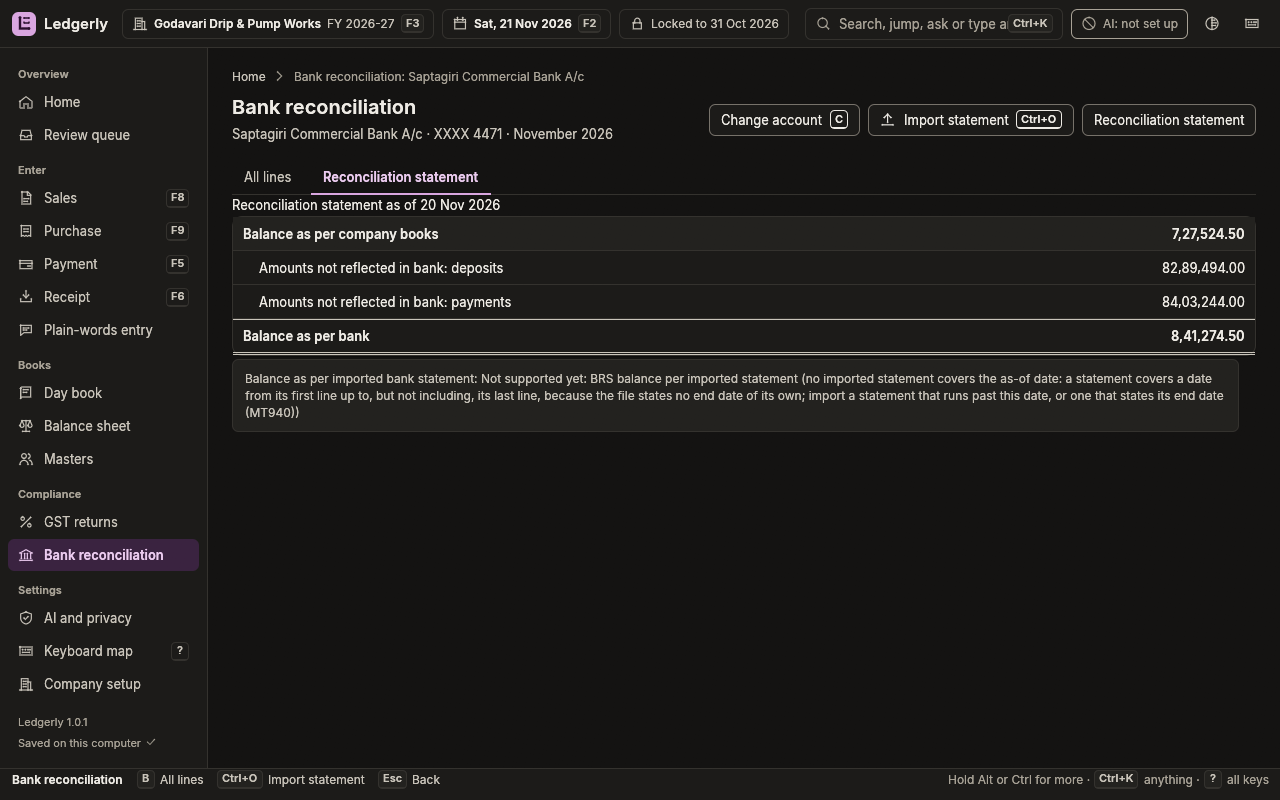
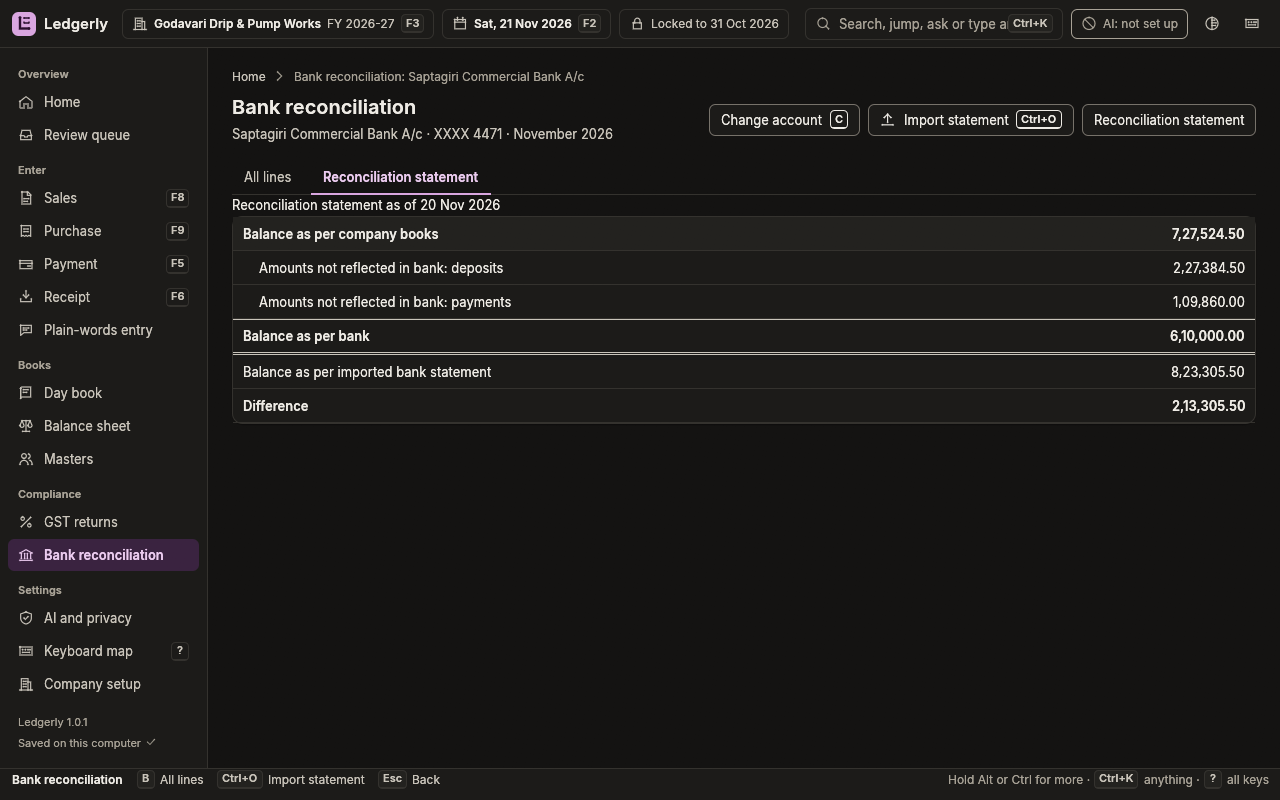
Sample: bank dates on the April to October bank lines and an MT940 November statement
The sample's Saptagiri history lines carry a bank date (cleared_days, 2 or 3 days after
the voucher), and the November statement is an MT940 file that states its end date, so the
reconciliation statement shows only the six November vouchers as uncleared, the statement
balance 8,23,305.50 and the difference, all computed by the engine.

Changed region(s): [[0.1875, 0.375, 0.9688, 0.5312], [0.9062, 0.3125, 0.9688, 0.3438]]

diff --git a/crates/ledgerly-sample/tests/s9_bank.rs b/crates/ledgerly-sample/tests/s9_bank.rs
@@ -1,0 +1,68 @@
+//! The bank reconciliation statement of Saptagiri on the sample company, 20 Nov 2026. Expected
+//! values are hand workings from the seed and the mock's statement (`design/mock-v2/index.html`
+//! lines 744-757); none is copied from engine output.
+#![allow(
+    clippy::unwrap_used,
+    clippy::panic,
+    reason = "tests stop on any failure"
+)]
+
+use ledgerly_api::Api;
+use ledgerly_core::{Clock, Outcome, Paise};
+use time::OffsetDateTime;
+use time::macros::date;
+
+fn sample() -> (tempfile::TempDir, Api) {
+    let dir = tempfile::tempdir_in("/media/devansh/Experiment/playground/claude-tmp").unwrap();
+    let api = ledgerly_sample::create(
+        &dir.path().join("sample.ledgerly"),
+        Clock::Fixed(OffsetDateTime::UNIX_EPOCH),
+    )
+    .unwrap();
+    (dir, api)
+}
+
+fn paise(rupees: i64, p: i64) -> Paise {
+    Paise::new(rupees * 100 + p)
+}
+
+#[test]
+fn the_brs_lists_only_november_items_and_the_statement_balance() {
+    let (_dir, api) = sample();
+    let books = match api.books().unwrap() {
+        Outcome::Value(b) => b,
+        Outcome::Unsupported(u) => panic!("{u:?}"),
+    };
+    let bank = books
+        .masters
+        .ledgers
+        .values()
+        .find(|l| l.name == "Saptagiri Commercial Bank A/c")
+        .unwrap()
+        .id;
+    let Outcome::Value(brs) = api.brs(bank, date!(2026 - 11 - 20)).unwrap() else {
+        panic!("the BRS is unsupported");
+    };
+    // provenance: derived. Opening 8,41,274.50 Dr (seed) + receipts April to October
+    // 80,62,109.50 + November receipts 80,000 + 1,47,384.50 - payments in October
+    // 19,73,016 + 14,860 + 48,05,508 + 15,00,000 = 82,93,384 - November payments
+    // 25,000 + 14,860 + 20,000 + 50,000 = 1,09,860  =  7,27,524.50.
+    assert_eq!(brs.books_balance, paise(727_524, 50));
+    // provenance: derived. Every April to October line carries a bank date (2 or 3 days after
+    // the voucher date, all before 5 Nov), so only the six November vouchers are uncleared:
+    // deposits RC/0215 80,000 + RC/0219 1,47,384.50; payments PY/0315 25,000 + PY/0316 14,860 +
+    // CT/0021 20,000 + PY/0318 50,000.
+    assert_eq!(brs.uncleared_deposits_total, paise(227_384, 50));
+    assert_eq!(brs.uncleared_payments_total, paise(109_860, 0));
+    assert_eq!(brs.uncleared_deposits.len(), 2);
+    assert_eq!(brs.uncleared_payments.len(), 4);
+    // provenance: derived. 7,27,524.50 - 2,27,384.50 + 1,09,860 = 6,10,000.00, which is the
+    // statement's opening balance (mock STMT.open = 610000).
+    assert_eq!(brs.balance_as_per_bank, paise(610_000, 0));
+    // provenance: derived from the mock's STMT: 6,10,000 + deposits (80,000 + 1,00,000 +
+    // 1,47,384.50) - withdrawals (25,000 + 14,860 + 20,000 + 2,340 + 1,180 + 59 + 640 +
+    // 50,000) = 8,23,305.50; the file states its end date, 20 Nov (:62F:).
+    assert_eq!(brs.statement_balance, Outcome::Value(paise(823_305, 50)));
+    // provenance: derived: statement - bank = 8,23,305.50 - 6,10,000.00 (our stated direction).
+    assert_eq!(brs.difference, Outcome::Value(paise(213_305, 50)));
+}

diff --git a/crates/ledgerly-sample/src/load.rs b/crates/ledgerly-sample/src/load.rs
@@ -34,8 +34,8 @@ use crate::seed::{
 
 /// The statement files the seed can name, embedded so the loader needs no folder.
 const STATEMENTS: [(&str, &str); 1] = [(
-    "saptagiri-nov-2026.csv",
-    include_str!("../assets/saptagiri-nov-2026.csv"),
+    "saptagiri-nov-2026.mt940",
+    include_str!("../assets/saptagiri-nov-2026.mt940"),
 )];
 
 fn value_error(field: impl Into<String>, reason: impl Into<String>) -> SampleError {
@@ -528,13 +528,31 @@ fn typed_line(
             amount,
         });
     }
-    let bank = l.chq.as_ref().map(|number| BankAllocation {
-        instrument: InstrumentKind::Cheque,
-        instrument_number: Some(number.clone()),
-        instrument_date: Some(date),
-        bank_date: None,
-        favouring: None,
-    });
+    let cleared = match l.cleared_days {
+        Some(days) => Some(
+            date.checked_add(time::Duration::days(i64::from(days)))
+                .ok_or_else(|| value_error(field, "the bank date is out of range"))?,
+        ),
+        None => None,
+    };
+    let bank = match (&l.chq, cleared) {
+        (Some(number), bank_date) => Some(BankAllocation {
+            instrument: InstrumentKind::Cheque,
+            instrument_number: Some(number.clone()),
+            instrument_date: Some(date),
+            bank_date,
+            favouring: None,
+        }),
+        // A line the bank cleared with no cheque: the instrument is not recorded.
+        (None, Some(bank_date)) => Some(BankAllocation {
+            instrument: InstrumentKind::Other,
+            instrument_number: None,
+            instrument_date: None,
+            bank_date: Some(bank_date),
+            favouring: None,
+        }),
+        (None, None) => None,
+    };
     Ok(LedgerLine {
         ineligible_itc: None,
         ledger: info.id,

diff --git a/crates/ledgerly-sample/src/seed.rs b/crates/ledgerly-sample/src/seed.rs
@@ -206,6 +206,8 @@ pub(crate) struct LineSeed {
     pub(crate) against: Option<String>,
     /// A cheque number on a bank line.
     pub(crate) chq: Option<String>,
+    /// The bank cleared the line this many days after the voucher date (the line's bank date).
+    pub(crate) cleared_days: Option<u16>,
 }
 
 /// One item line of an item invoice.

diff --git a/design/COMPARE.md b/design/COMPARE.md
@@ -79,7 +79,6 @@
 | dark | balance-sheet.provisional | 0.6499 |
 | light | keys.standard | 0.6536 |
 | light | palette.commands | 0.6540 |
-| hc | bank.brs | 0.6542 |
 | dark | purchase-bill.offline-ai | 0.6543 |
 | dark | gst.gstr1 | 0.6544 |
 | dark | keys.standard | 0.6546 |
@@ -88,6 +87,7 @@
 | light | gst.gstr1 | 0.6570 |
 | dark | keys.classic | 0.6577 |
 | hc | gst.gstr3b | 0.6581 |
+| hc | bank.brs | 0.6585 |
 | hc | sales-invoice.saved | 0.6607 |
 | dark | review.default | 0.6607 |
 | light | ai-settings.local | 0.6612 |
@@ -114,12 +114,12 @@
 | light | gst.gstr3b | 0.7003 |
 | dark | balance-sheet.default | 0.7009 |
 | dark | gst.gstr3b | 0.7072 |
-| dark | bank.brs | 0.7083 |
 | hc | setup.features | 0.7087 |
 | hc | masters.gstin-error | 0.7091 |
-| light | bank.brs | 0.7098 |
 | dark | masters.items | 0.7161 |
+| light | bank.brs | 0.7175 |
 | light | masters.items | 0.7184 |
+| dark | bank.brs | 0.7190 |
 | light | payment.overdraft | 0.7305 |
 | dark | balance-sheet.voucher | 0.7309 |
 | dark | payment.overdraft | 0.7315 |
@@ -1088,18 +1088,6 @@ SSIM 0.6540
 </tr>
 </table>
 
-## hc / bank.brs
-
-SSIM 0.6542
-
-<table>
-<tr><th>Mock</th><th>App</th></tr>
-<tr>
-<td><img src="mock-v2/captures/states/hc/bank.brs.webp" width="480" alt="mock hc bank.brs"></td>
-<td><img src="app-captures/hc/bank.brs.webp" width="480" alt="app hc bank.brs"></td>
-</tr>
-</table>
-
 ## dark / purchase-bill.offline-ai
 
 SSIM 0.6543
@@ -1193,6 +1181,18 @@ SSIM 0.6581
 <tr>
 <td><img src="mock-v2/captures/states/hc/gst.gstr3b.webp" width="480" alt="mock hc gst.gstr3b"></td>
 <td><img src="app-captures/hc/gst.gstr3b.webp" width="480" alt="app hc gst.gstr3b"></td>
+</tr>
+</table>
+
+## hc / bank.brs
+
+SSIM 0.6585
+
+<table>
+<tr><th>Mock</th><th>App</th></tr>
+<tr>
+<td><img src="mock-v2/captures/states/hc/bank.brs.webp" width="480" alt="mock hc bank.brs"></td>
+<td><img src="app-captures/hc/bank.brs.webp" width="480" alt="app hc bank.brs"></td>
 </tr>
 </table>
 
@@ -1508,18 +1508,6 @@ SSIM 0.7072
 </tr>
 </table>
 
-## dark / bank.brs
-
-SSIM 0.7083
-
-<table>
-<tr><th>Mock</th><th>App</th></tr>
-<tr>
-<td><img src="mock-v2/captures/states/dark/bank.brs.webp" width="480" alt="mock dark bank.brs"></td>
-<td><img src="app-captures/dark/bank.brs.webp" width="480" alt="app dark bank.brs"></td>
-</tr>
-</table>
-
 ## hc / setup.features
 
 SSIM 0.7087
@@ -1544,18 +1532,6 @@ SSIM 0.7091
 </tr>
 </table>
 
-## light / bank.brs
-
-SSIM 0.7098
-
-<table>
-<tr><th>Mock</th><th>App</th></tr>
-<tr>
-<td><img src="mock-v2/captures/states/light/bank.brs.webp" width="480" alt="mock light bank.brs"></td>
-<td><img src="app-captures/light/bank.brs.webp" width="480" alt="app light bank.brs"></td>
-</tr>
-</table>
-
 ## dark / masters.items
 
 SSIM 0.7161
@@ -1568,6 +1544,18 @@ SSIM 0.7161
 </tr>
 </table>
 
+## light / bank.brs
+
+SSIM 0.7175
+
+<table>
+<tr><th>Mock</th><th>App</th></tr>
+<tr>
+<td><img src="mock-v2/captures/states/light/bank.brs.webp" width="480" alt="mock light bank.brs"></td>
+<td><img src="app-captures/light/bank.brs.webp" width="480" alt="app light bank.brs"></td>
+</tr>
+</table>
+
 ## light / masters.items
 
 SSIM 0.7184
@@ -1577,6 +1565,18 @@ SSIM 0.7184
 <tr>
 <td><img src="mock-v2/captures/states/light/masters.items.webp" width="480" alt="mock light masters.items"></td>
 <td><img src="app-captures/light/masters.items.webp" width="480" alt="app light masters.items"></td>
+</tr>
+</table>
+
+## dark / bank.brs
+
+SSIM 0.7190
+
+<table>
+<tr><th>Mock</th><th>App</th></tr>
+<tr>
+<td><img src="mock-v2/captures/states/dark/bank.brs.webp" width="480" alt="mock dark bank.brs"></td>
+<td><img src="app-captures/dark/bank.brs.webp" width="480" alt="app dark bank.brs"></td>
 </tr>
 </table>
 

diff --git a/design/PARITY-GAPS.md b/design/PARITY-GAPS.md
@@ -398,11 +398,22 @@ captured: `suggested-ledger` (needs bank matching to propose a ledger, which is 
   line. The lines are the same eleven with the same amounts and dates. The narration wraps to two
   lines in its column (row height 46) where the mock wraps to up to three. This round fixed the
   focus card running off the right edge of the window (the table's remainder column pushed it).
-- **data: the reconciliation statement on Godavari is the engine's honest answer, not the mock's.**
-  `bank.brs` lists the books balance, the deposits and payments the books have with no bank date
-  (82,89,494.00 and 84,03,244.00: the invented April to October history has no bank dates) and no
-  "Balance as per imported statement", because the engine returns `Unsupported` for a statement
-  that does not state its end date (see the note on the card). The mock lists each line.
+- **closed (s9): the reconciliation statement on Godavari is no longer a wall of uncleared items.**
+  The sample seed gives each April to October line on Saptagiri a bank date (`cleared_days`, 2 or
+  3 days after the voucher date; all before the statement starts on 5 Nov), and the November
+  statement is an MT940 file (same eleven lines and balances as before) whose `:62F:` states its
+  end date, 20 Nov. `bank.brs` now shows: books 7,27,524.50; not reflected in bank: deposits
+  2,27,384.50 and payments 1,09,860.00 (the six November vouchers, none confirmed against the
+  statement yet); balance as per bank 6,10,000.00 (the mock's statement opening); balance as per
+  imported statement 8,23,305.50 (the mock's closing); difference 2,13,305.50. All engine values.
+- **gap: the reconciliation statement lists totals, not the mock's lines.** The mock's
+  statement has the same closing balance but is a different computation: it lists "In the bank,
+  not yet in the books" (the five unmatched lines) and treats Exact, Rule and AI-matched vouchers
+  as matched, with a difference of 95,781.00. Ours treats a voucher as cleared only once a user
+  confirms a match (spec 6.5), so the six November vouchers are uncleared and the difference is
+  2,13,305.50 (95,781.00 of lines not in the books plus 1,17,524.50 net of matched-but-unconfirmed
+  vouchers). Left: confirm the Exact matches in the sample (it would need audit events) or list
+  the lines.
 - **gap: the empty state's look.** `bank.empty` has the 36 px icon, the 420 px sentence and an
   Upload-icon button, and hides the tabs; the subtitle now carries the account number and month.
   Left: a File layout row under the card (functional) and the account name in the breadcrumb.
@@ -846,7 +857,7 @@ reason names the item); no state to compare with, so nothing further was changed
 ## Sample company (card S8, 2026-11-24)
 
 The sample is the crate `crates/ledgerly-sample`: a versioned, human-readable seed
-(`assets/godavari.toml`, plus the bank statement `assets/saptagiri-nov-2026.csv`) of masters and
+(`assets/godavari.toml`, plus the bank statement `assets/saptagiri-nov-2026.mt940`) of masters and
 vouchers, no totals. `ledgerly_sample::create` posts it through `ledgerly-api` (`Api::create`,
 `Command::*`, `import_bank_statement`, and `LockPeriod` last, 31 Oct 2026), so every figure on
 screen is the engine's. The capture harness opens it as `Fixture::Godavari`, with the clock fixed
